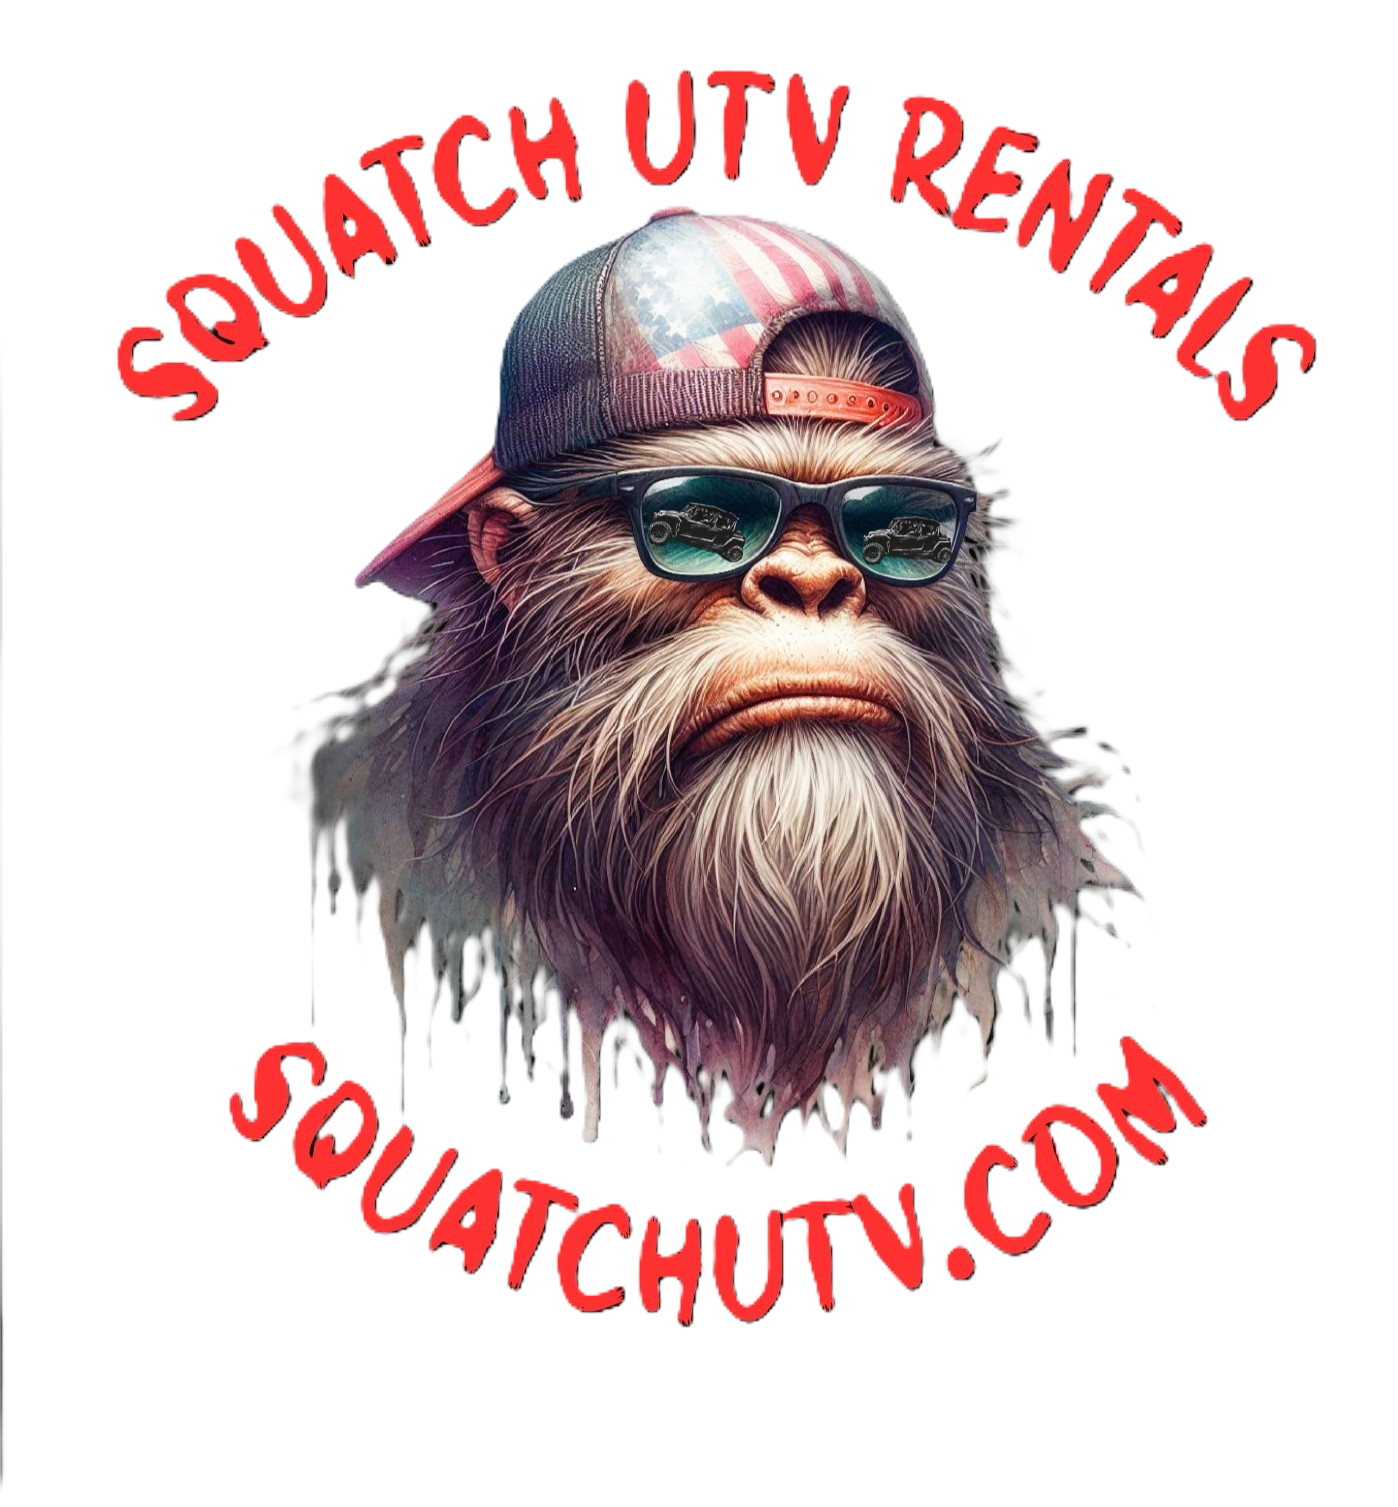
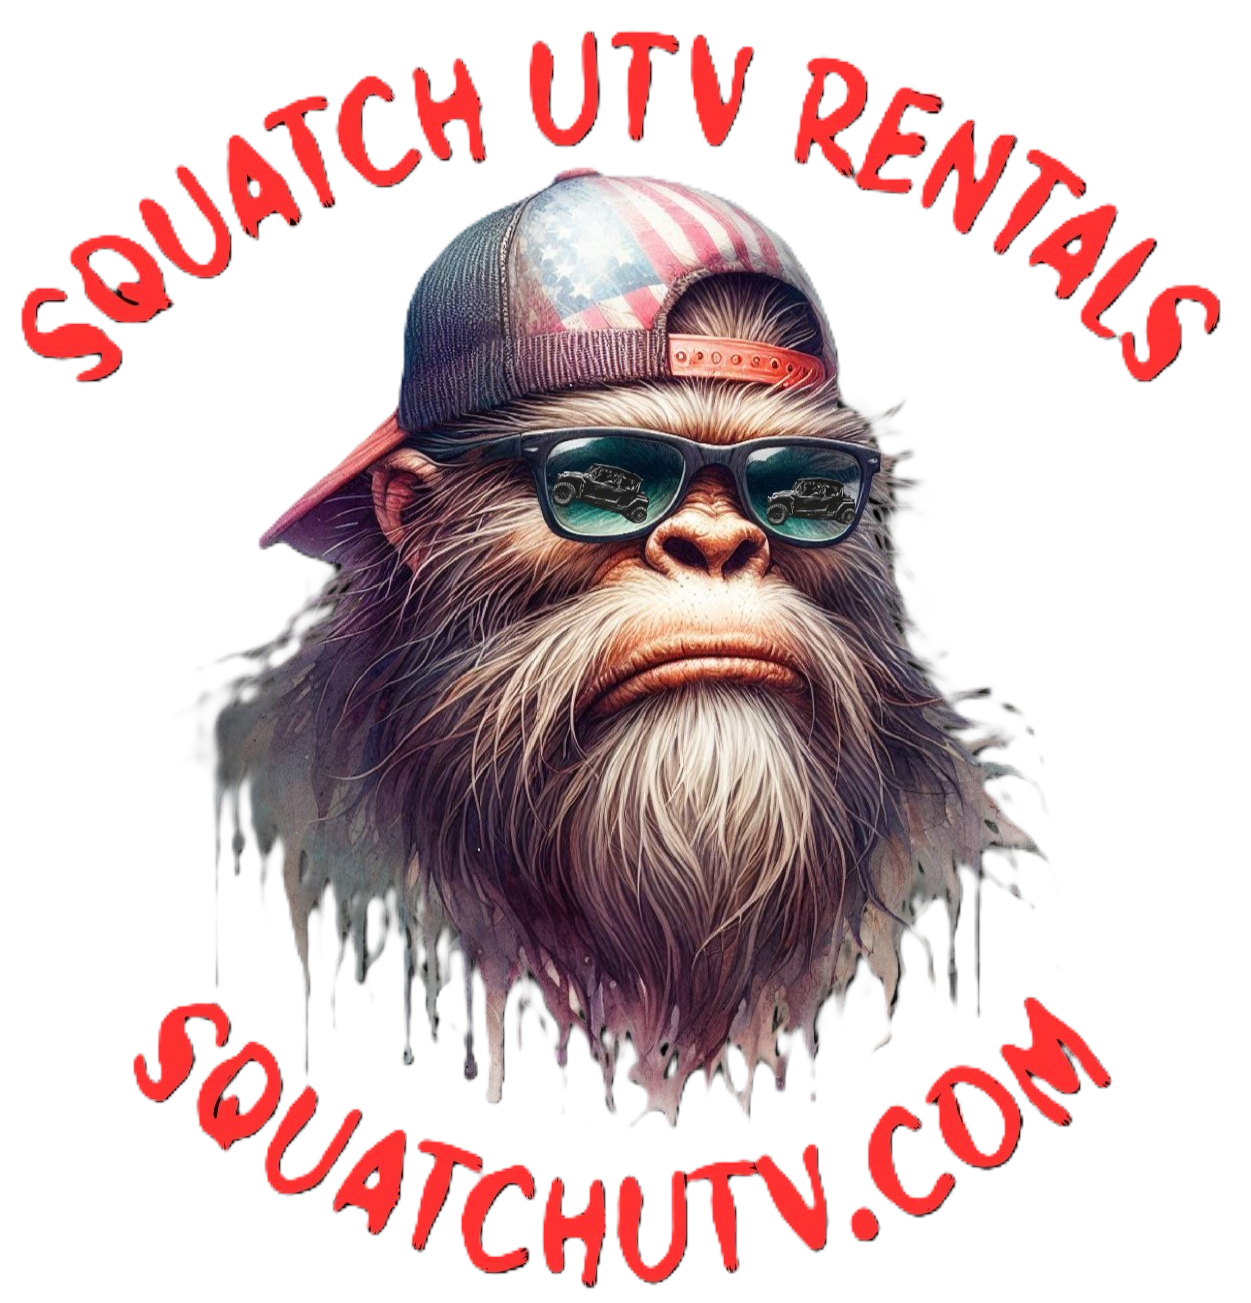
Reorganize sponsor slides in carousel; add new Squatch UTV Rentals sponsor.

diff --git a/index.html b/index.html
@@ -1142,20 +1142,26 @@
     <div class="sponsors-carousel-wrapper">
       <div class="sponsors-carousel" id="sponsors-carousel">
         <div class="sponsor-slide active">
-          <a href="https://beardandladyinn.com/" target="_blank" rel="noopener noreferrer" class="sponsor-link" aria-label="Visit Beard & Lady Inn website">
-            <img src="/assets/images/sponsors/beard.jpg" alt="Beard & Lady Inn" class="sponsor-logo">
-          </a>
-        </div>
-        <div class="sponsor-slide">
-          <a href="https://www.instagram.com/thegardenofeden1999/" target="_blank" rel="noopener noreferrer" class="sponsor-link" aria-label="Visit The Garden of Eden on Instagram">
-            <img src="/assets/images/sponsors/garden.png" alt="The Garden of Eden" class="sponsor-logo">
-          </a>
-        </div>
-        <div class="sponsor-slide">
-          <span class="sponsor-link no-link" aria-label="Gemini Capital Group">
-            <img src="/assets/images/sponsors/GeminiCG.png" alt="Gemini Capital Group" class="sponsor-logo">
-          </span>
-        </div>
+  <span class="sponsor-link no-link" aria-label="Gemini Capital Group">
+    <img src="/assets/images/sponsors/GeminiCG.png" alt="Gemini Capital Group" class="sponsor-logo">
+  </span>
+</div>
+<div class="sponsor-slide">
+  <a href="https://beardandladyinn.com/" target="_blank" rel="noopener noreferrer" class="sponsor-link" aria-label="Visit Beard & Lady Inn website">
+    <img src="/assets/images/sponsors/beard.jpg" alt="Beard & Lady Inn" class="sponsor-logo">
+  </a>
+</div>
+<div class="sponsor-slide">
+  <a href="https://www.instagram.com/thegardenofeden1999/" target="_blank" rel="noopener noreferrer" class="sponsor-link" aria-label="Visit The Garden of Eden on Instagram">
+    <img src="/assets/images/sponsors/garden.png" alt="The Garden of Eden" class="sponsor-logo">
+  </a>
+</div>
+<div class="sponsor-slide">
+  <span class="sponsor-link no-link" aria-label="Squatch">
+    <img src="/assets/images/sponsors/squatch.png" alt="Squatch" class="sponsor-logo">
+  </span>
+</div>
+
       </div>
 
       <!-- Carousel Controls -->
@@ -1171,6 +1177,7 @@
         <button class="indicator active" data-slide="0" aria-label="Go to sponsor 1"></button>
         <button class="indicator" data-slide="1" aria-label="Go to sponsor 2"></button>
         <button class="indicator" data-slide="2" aria-label="Go to sponsor 3"></button>
+        <button class="indicator" data-slide="3" aria-label="Go to sponsor 4"></button>
       </div>
     </div>
 
